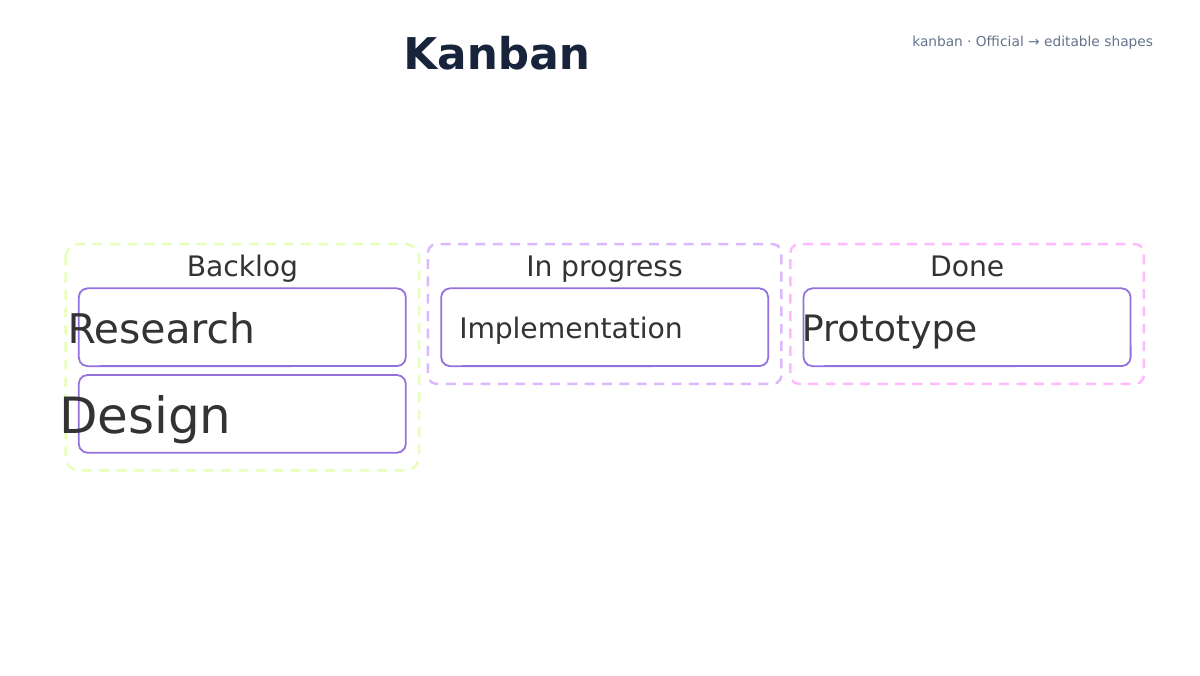
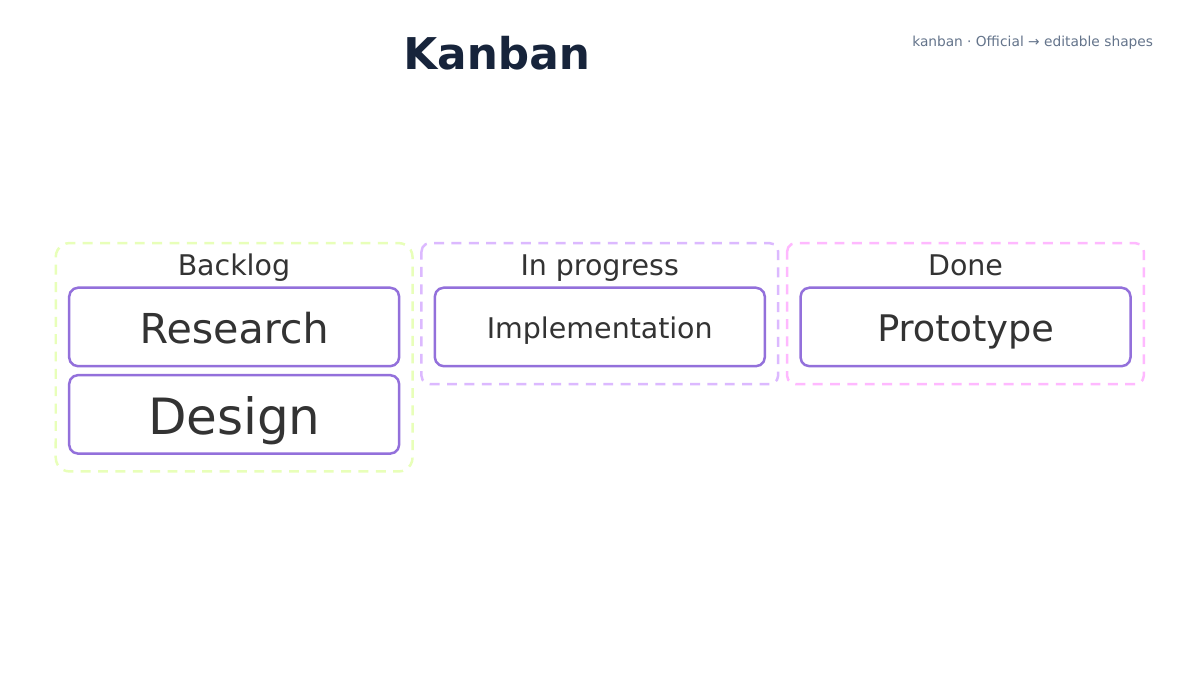
Fix Kanban cards and enlarge radar labels

Changed region(s): [[0.0308, 0.3417, 0.9558, 0.6834]]

diff --git a/src/diagram_pptx/importers/mermaid_svg.py b/src/diagram_pptx/importers/mermaid_svg.py
@@ -147,10 +147,41 @@ def _improve_radar_typography(scene: DrawingScene) -> None:
 
     if scene.kind != "radar":
         return
+    graticules = [
+        item
+        for item in scene.elements
+        if isinstance(item, SceneShape) and "radarGraticule" in item.classes
+    ]
+    if graticules:
+        outer = max(graticules, key=lambda item: item.box.width * item.box.height)
+        center = outer.box.center
+        geometry_scale = 0.86
+        for item in scene.elements:
+            if isinstance(item, SceneShape) and not item.classes.isdisjoint(
+                {"radarGraticule", "radarCurve-0", "radarCurve-1"}
+            ):
+                item.box = _scale_box_around(item.box, center, geometry_scale)
+                if item.points:
+                    item.points = [
+                        _scale_point_around(point, center, geometry_scale) for point in item.points
+                    ]
+                    item.box = _box_for_points(item.points)
+            elif isinstance(item, SceneConnector) and "radarAxisLine" in item.classes:
+                item.points = [
+                    _scale_point_around(point, center, geometry_scale) for point in item.points
+                ]
+            elif isinstance(item, SceneText) and "radarAxisLabel" in item.classes:
+                label_center = _scale_point_around(item.box.center, center, 0.91)
+                item.box = Box(
+                    label_center.x - item.box.width / 2,
+                    label_center.y - item.box.height / 2,
+                    item.box.width,
+                    item.box.height,
+                )
     target_sizes = {
-        "radarAxisLabel": 24.0,
-        "radarLegendText": 20.0,
-        "radarTitle": 24.0,
+        "radarAxisLabel": 30.0,
+        "radarLegendText": 22.0,
+        "radarTitle": 26.0,
     }
     for item in scene.elements:
         if not isinstance(item, SceneText):
@@ -181,6 +212,23 @@ def _improve_radar_typography(scene: DrawingScene) -> None:
             height,
         )
         item.style.font_size = target_size
+
+
+def _scale_point_around(point: Point, center: Point, scale: float) -> Point:
+    return Point(
+        center.x + (point.x - center.x) * scale,
+        center.y + (point.y - center.y) * scale,
+    )
+
+
+def _scale_box_around(box: Box, center: Point, scale: float) -> Box:
+    top_left = _scale_point_around(Point(box.x, box.y), center, scale)
+    return Box(
+        top_left.x,
+        top_left.y,
+        box.width * scale,
+        box.height * scale,
+    )
 
 
 def _walk(
@@ -503,13 +551,14 @@ def _walk(
 def _coalesce_node_labels(scene: DrawingScene) -> None:
     """Put simple node labels in their native PowerPoint shape.
 
-    Mermaid SVG represents geometry and labels separately.  For flow and state
-    nodes a single label can safely become the shape's own text frame, which is
-    more editable and prevents a redundant textbox from drifting during group
-    scaling.  Structured diagrams keep their independent compartment text.
+    Mermaid SVG represents geometry and labels separately.  For flow, state,
+    and Kanban nodes a single label can safely become the shape's own text
+    frame, which is more editable and prevents a redundant textbox from
+    drifting during group scaling. Structured diagrams keep their independent
+    compartment text.
     """
 
-    if scene.kind not in {"flowchart", "state"}:
+    if scene.kind not in {"flowchart", "kanban", "state"}:
         return
     shapes_by_id: dict[str, list[SceneShape]] = {}
     for element in scene.elements:

diff --git a/tests/test_official_backend.py b/tests/test_official_backend.py
@@ -96,6 +96,24 @@ def test_mermaid_svg_ignores_empty_label_rectangles() -> None:
     assert shapes[0].text == "Alpha"
 
 
+def test_mermaid_svg_puts_kanban_card_text_in_the_card_shape() -> None:
+    scene = import_mermaid_svg(
+        """\
+<svg xmlns="http://www.w3.org/2000/svg" viewBox="0 0 220 80">
+  <g id="flowchart-task1-0" class="node items">
+    <rect class="label-container" x="10" y="10" width="200" height="50" rx="4"/>
+    <text class="label" x="110" y="40" text-anchor="middle">Research</text>
+  </g>
+</svg>
+""",
+        kind="kanban",
+    )
+
+    card = next(item for item in scene.elements if isinstance(item, SceneShape))
+    assert card.text == "Research"
+    assert not any(isinstance(item, SceneText) for item in scene.elements)
+
+
 def test_mermaid_svg_samples_elliptical_arc_paths() -> None:
     scene = import_mermaid_svg(
         """\
@@ -149,6 +167,8 @@ def test_mermaid_svg_enlarges_radar_typography_for_slide_readability() -> None:
     scene = import_mermaid_svg(
         """\
 <svg xmlns="http://www.w3.org/2000/svg" viewBox="0 0 700 700">
+  <circle class="radarGraticule" cx="350" cy="350" r="300"/>
+  <line class="radarAxisLine" x1="350" y1="350" x2="350" y2="50"/>
   <text class="radarAxisLabel" x="350" y="30"
         text-anchor="middle" font-size="12">Speed</text>
   <text class="radarLegendText" x="610" y="90"
@@ -161,10 +181,12 @@ def test_mermaid_svg_enlarges_radar_typography_for_slide_readability() -> None:
     )
 
     labels = {item.text: item for item in scene.elements if isinstance(item, SceneText)}
-    assert labels["Speed"].style.font_size == 24
-    assert labels["Alpha"].style.font_size == 20
-    assert labels["Product comparison"].style.font_size == 24
-    assert labels["Speed"].box.width == pytest.approx(67.68)
+    outer = next(item for item in scene.elements if isinstance(item, SceneShape))
+    assert outer.box.width == pytest.approx(516)
+    assert labels["Speed"].style.font_size == 30
+    assert labels["Alpha"].style.font_size == 22
+    assert labels["Product comparison"].style.font_size == 26
+    assert labels["Speed"].box.width == pytest.approx(84.6)
     assert labels["Product comparison"].box.center.x == pytest.approx(labels["Speed"].box.center.x)
 
 

diff --git a/CHANGELOG.md b/CHANGELOG.md
@@ -46,6 +46,10 @@ Versioning.
 - Shape labels now use adaptive typography with up to two-thirds of the
   available height, constrained by text width, line count, neighboring labels,
   and shape-specific padding.
+- Official Kanban card labels now live directly in each editable card
+  AutoShape instead of overlapping standalone text boxes.
+- Official Radar output now uses a smaller plot radius with larger axis,
+  legend, and title typography.
 
 ## [0.1.0a1] - 2026-07-26
 
